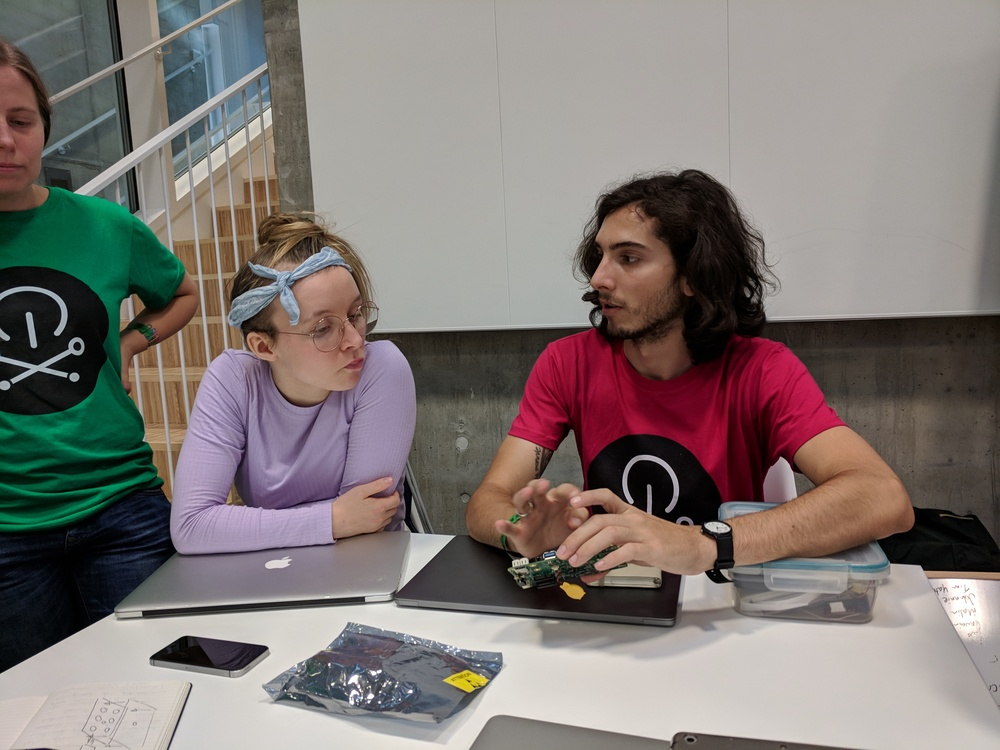
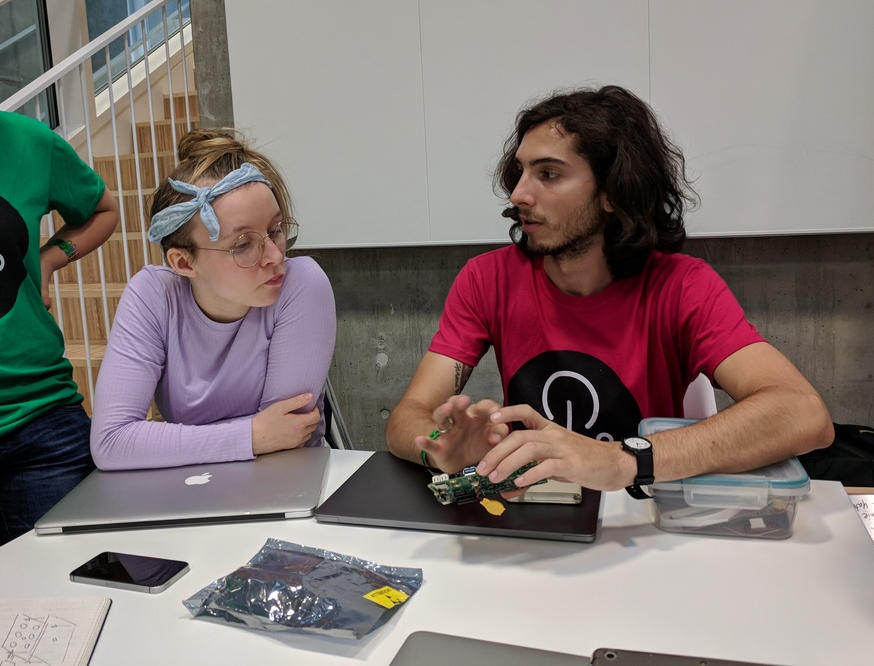
set the images

diff --git a/index.html b/index.html
@@ -100,7 +100,7 @@
             for a games console. </p>
 
         <div class="images">
-            <img src="/images/above.jpg" alt="">
+            <img src="/images/planning.jpg" alt="">
         </div>
 
         <p>
@@ -115,11 +115,11 @@
         </p>
 
         <div class="images">
-            <img src="/images/above.jpg" alt="">
+            <img src="/images/progress.jpg" alt="">
         </div>
 
         <div class="images">
-            <img src="/images/above.jpg" alt="">
+            <img src="/images/insides.jpg" alt="">
         </div>
 
         <p>For this hackathon we have created a playable proof of concept with three data sets. Further investment will allow
@@ -130,10 +130,10 @@
 
 
         <div class="images">
-            <img src="/images/above.jpg" alt="">
+            <img src="/images/gluing.jpg" alt="">
         </div>
         <div class="images">
-            <img src="/images/above.jpg" alt="">
+            <img src="/images/presentation.jpg" alt="">
         </div>
         <div class="images">
             <img src="/images/above.jpg" alt="">
